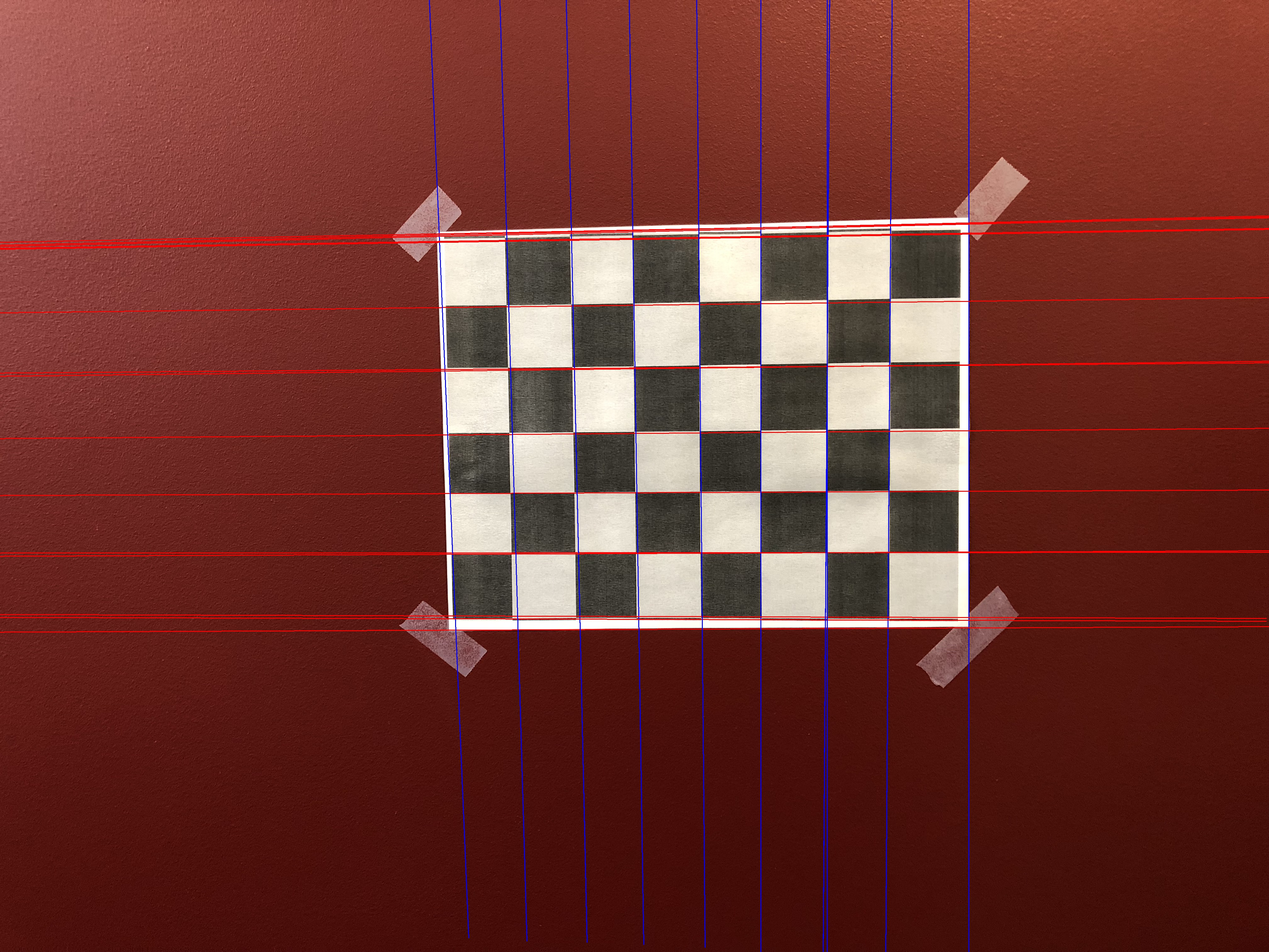
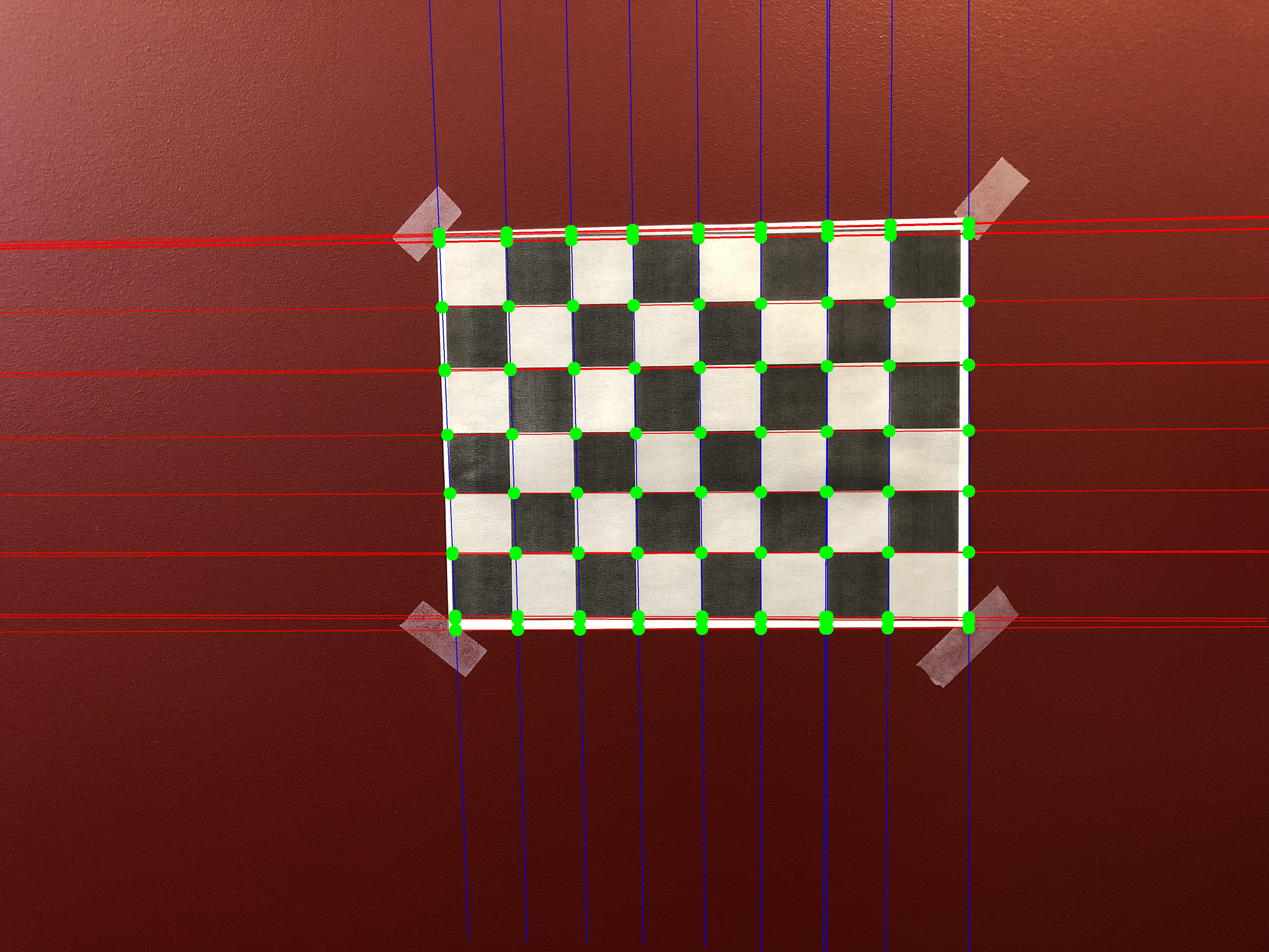
Found Intersections
- Plotted intersecting points with green circles.
- Used cross product result of the two lines to do this!

diff --git a/lab1/lab1.py b/lab1/lab1.py
@@ -29,6 +29,11 @@ cv2.imwrite('Dilate.jpg', dilate)
 lines = cv2.HoughLines(edges,0.8,0.005,400) # The parameters are accuracies and threshold
 num = len(lines)
 
+HorizontalLines = []
+VerticalLines = []
+
+# Cycle through Original Line List
+
 for n in range(num):
     rho, theta = lines[n][0]
     a = np.cos(theta)
@@ -44,9 +49,36 @@ for n in range(num):
     if (theta >= pi/2-0.2) and (theta <= pi/2+0.2):
         # Vertical Line = BLUE
         cv2.line(img,(x1,y1),(x2,y2),(0,0,255),2)
+        VerticalLines.append((x1,y1,x2,y2))
     else:
         # Horizontal Line = RED
         cv2.line(img,(x1,y1),(x2,y2),(255,0,0),2)
+        HorizontalLines.append((x1,y1,x2,y2))
 
+# Cycle through Vertical Lines and find intercepts with Horizontal lines
+
+intersects = []
+
+for vertline in VerticalLines:
+    for horzline in HorizontalLines:
+
+        a1 = (vertline[0], vertline[1]) # Point on Vertical Line
+        a2 = (vertline[2], vertline[3]) # Second point on Vertical Line
+
+        b1 = (horzline[0], horzline[1]) # Point on Horizontal Line
+        b2 = (horzline[2], horzline[3]) # Second point on Horizontal Line
+
+        s = np.vstack([a1,a2,b1,b2])        # s for stacked
+        h = np.hstack((s, np.ones((4, 1)))) # h for homogeneous
+        l1 = np.cross(h[0], h[1])           # get first line
+        l2 = np.cross(h[2], h[3])           # get second line
+        x, y, z = np.cross(l1, l2)          # point of intersection
+        if z == 0:                          # lines are parallel
+            break
+        else:
+            intersects.append((int(x/z), int(y/z)))
+
+for point in intersects:
+    img = cv2.circle(img, (point[0], point[1]), radius=20, color=(0,255,0), thickness=-1)
 
 cv2.imwrite('HoughOut.jpg', img)
